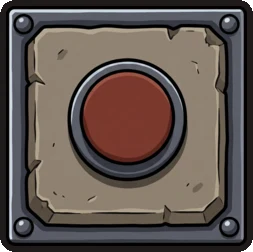
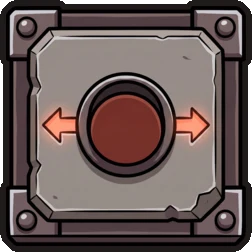
Regenerate spear trap art through the prop recipes

diff --git a/docs/art/PROPS.md b/docs/art/PROPS.md
@@ -3,72 +3,61 @@
 Painted art for things on the board that aren't pieces: the spear trap's floor switch
 (armed and pressed), its wall launcher and the spear in flight. Files in
 `src/assets/props/`, drawn by CSS in `src/exile.css` (`.floor-switch`, `.spear-launcher`,
-`.strike-bolt.spear-bolt`). Look rules: `docs/art-style.md`.
+`.spear-volley`). Look rules: `docs/art-style.md`.
 
-## How they were made (Nov 8 2026)
+## Make or re-roll a prop
 
-1. Nano Banana Pro (`google/gemini-3-pro-image`), with `docs/art/sheet-armour-talks.webp`
-   as the only reference image, on a flat `#d8d8d8` background. Two rolls each; the
-   picks are below.
-2. Pressed switch: an edit of the armed switch (same model), so the slab matches.
-3. Cutout: BiRefNet ToonOut (`sprited/birefnet-toonout`, `refine_fg: true`).
-4. `node tools/art/prop.mjs <painted.png> <cutout.png> <out.webp> ...`: trims, scales and
-   thickens the outline in ink, as `sprite.mjs` does for characters.
+Same pipeline as the characters (`PAINTED.md`): Nano Banana Pro (`google/nano-banana-pro`)
+with the style sheet `docs/art/sheet-armour-talks.webp` as the only reference, then the
+BRIA cutout (`bria/remove-background`), then `prop.mjs`.
 
-| File | Size flags | Note |
-|---|---|---|
-| `switch.webp` | `--height 240 --outline 6` | Straight-on roll, earthy stone; the 3/4-tilted roll fought the square tile. |
-| `switch-sprung.webp` | `--height 240 --outline 6` | Edit of `switch.webp`. |
-| `launcher.webp` | `--height 160 --outline 5` | The roll with a coil spring across the top reads as "wound up". |
-| `spear.webp` | `--width 640 --outline 5` | 21:9 (the model refuses 4:1); the roll with the bigger leaf head. |
+1. `node tools/art/gen.mjs docs/art/recipes/paint-prop-<name>.json` (output in
+   `art-out/paint-prop-<name>/`). Look at the paint step at full size; re-roll if the
+   outline is thin, the shading has gradients, or anything from the sheet leaks in.
+2. `node tools/art/prop.mjs art-out/paint-prop-<name>/step-1-paint.png
+   art-out/paint-prop-<name>/step-2-cutout.png <file> <flags>`, with `file` and `flags`
+   from the recipe's `prop` block (for the pressed switch the colour is `step-2-pressed.png`
+   and the cutout `step-3-cutout.png`). It trims, scales and thickens the outer outline in
+   ink, as `sprite.mjs` does for characters.
+3. If the size changes, update the `aspect-ratio` of `.spear-launcher` / `.spear-volley i`
+   in `src/exile.css`.
 
-Every prompt opens with this style block:
+| Recipe | File | Flags | Pick (Nov 8 2026) |
+|---|---|---|---|
+| `paint-prop-switch.json` | `switch.webp` | `--height 240 --outline 6` | Second of two rolls: carved side arrows meet the button ring, white highlight tick. |
+| `paint-prop-switch-pressed.json` | `switch-sprung.webp` | `--height 240 --outline 6` | One edit of that pick (step 2 of the recipe); arrows glow after firing. |
+| `paint-prop-launcher.json` | `launcher.webp` | `--height 160 --outline 5` | First of two rolls: three-quarter crate, spring coil on top, muzzle with spear tip. |
+| `paint-prop-spear.json` | `spear.webp` | `--width 640 --outline 5` | Second of two 16:9 rolls; the first painted the sheet's panels under the spear. |
 
-> Game prop sprite, painted as one single whole image, in the exact art style of the first
-> image (a character select sheet): bold flash-era 2D brawler cartoon, very thick even
-> black outlines, flat fills, one hard cel shadow, crisp white highlight ticks on metal.
+## Notes from the rolls
 
-Subjects (each ends with "A VERY thick black outer outline all the way round. One object
-only, centred, filling most of the frame with a small margin, on a plain flat light grey
-background (#d8d8d8), no ground, no cast shadow, no text, no labels, no frame."):
-
-- **Switch** (1:1): a stone floor pressure plate trap switch for a medieval dungeon floor
-  tile, seen from above at a slight three-quarter tilt. A square slab of rough grey stone
-  with chunky bevelled edges, set in a dark iron frame with four big round rivets at the
-  corners. In the middle a big raised round button painted bright red (#cd2a25) with an
-  iron ring around it and one crisp white highlight tick, clearly sticking up, ready to be
-  stepped on. One small chip in the stone corner as a sign of wear. Simple chunky shapes,
-  few interior lines, so it reads clearly at 48 pixels. Earthy greys and iron, with the red
-  button as the one bright accent.
-- **Pressed switch** (edit of the switch): Change only the round red button in the
-  middle: it has been pressed all the way down, so it now sits flush, sunk into its iron
-  ring with no visible side wall, and its colour is a dull dark brick red (#7a2a24) with no
-  white highlight. Keep everything else exactly the same.
-- **Launcher** (1:1): a wall-mounted spear launcher trap, seen from the side, facing
-  RIGHT. A chunky square box of dark wooden planks (#5f3f2c with lighter #865637 plank
-  faces) bound with two thick iron bands with round rivets, with a coiled iron spring
-  visible on top. On its right face a round dark hole, and the steel tip of a loaded spear
-  pokes out of the hole to the right, pointing right. Squat and compact, about as tall as
-  it is wide. Simple chunky shapes, so it reads clearly at 32 pixels. No wall behind it.
-- **Spear** (21:9): one long medieval throwing spear lying perfectly horizontal, pointing
-  to the RIGHT. A straight light-brown wooden shaft (#a57952) with a darker wood shadow
-  stripe along its underside, a leather grip wrap near the back end, and at the right end
-  a big leaf-shaped steel spearhead (#8a9094 with a hard darker shadow half and one white
-  highlight tick) on a short iron socket. Chunky proportions: the spearhead is large and
-  bold, the shaft thick enough to read at small size. No motion lines.
+- Only the style sheet as reference. Adding a character sprite (transparent webp) as a
+  second reference leaked its feet into the picture.
+- The spear at 21:9 copied the reference sheet's panels; at 16:9 with "Using ONLY the art
+  style of the attached character select sheet (do not copy its layout, characters,
+  panels or text)" it came out clean.
+- The pressed switch is an edit of the armed paint, so the slab and frame match.
+- These rolls ran through the image-gen tool on Replicate (same models and prompts as the
+  recipes), because no `REPLICATE_API_TOKEN` was set in that session; `gen.mjs` sends the
+  same requests.
 
 ## Item icons (Nov 8 2026)
 
 The bag's icons in `src/assets/items/`, drawn by `table/ItemSlots.tsx`. The decoy's icon is
 also the straw pawn on the board (`decoyBox` in `SpriteRig.tsx`, drawn at a pawn's height).
-Same method as above: Nano Banana Pro (here through Replicate as `google/nano-banana-pro`)
-with `docs/art/sheet-armour-talks.webp` as the only reference, BiRefNet ToonOut cutout
+Nano Banana Pro (through Replicate as `google/nano-banana-pro`) with
+`docs/art/sheet-armour-talks.webp` as the only reference, BiRefNet ToonOut cutout
 (`refine_fg: true`), then `tools/art/prop.mjs`.
 
 | File | Size flags | Note |
 |---|---|---|
 | `bomb.webp` | `--height 160 --outline 5` | One roll, kept. |
 | `decoy.webp` | `--height 240 --outline 6` | 3:4. Two rolls; the squat one on a wide base (reads as a pawn, no cast shadow) over the tall one on a stem. |
+
+Both prompts end with this closing sentence: "A VERY thick black outer outline all the way
+round. One object only, centred, filling most of the frame with a small margin, on a plain
+flat light grey background (#d8d8d8), no ground, no cast shadow, no text, no labels, no
+frame."
 
 - **Bomb** (1:1): "Game item icon, painted as one single whole image, in the exact art style
   of the first image (a character select sheet): bold flash-era 2D brawler cartoon, very thick
@@ -79,7 +68,7 @@ with `docs/art/sheet-armour-talks.webp` as the only reference, BiRefNet ToonOut 
   coming out of the cap, its tip lit with a bright yellow and orange spark (#ffd34d, #f08a2a)
   shaped like a small star burst. Slight three-quarter view, the fuse curling up and to the
   right. Simple chunky shapes, few interior lines, so it reads clearly at 32 pixels." + the
-  closing sentence above.
+  closing sentence.
 - **Decoy** (3:4): "Game character sprite, painted as one single whole image, in the exact art
   style of the first image (a character select sheet): bold flash-era 2D brawler cartoon, very
   thick even black outlines, flat fills, one hard cel shadow. Subject: a straw training dummy
@@ -91,6 +80,7 @@ with `docs/art/sheet-armour-talks.webp` as the only reference, BiRefNet ToonOut 
   sitting on a flared round wooden base painted warm brown (#865637) like a pawn's foot, with a
   hard darker shadow. A faded red painted target circle (#cd2a25) on its chest. Squat chunky
   proportions like a chess pawn, simple shapes, few interior lines, so it reads clearly at 48
-  pixels." + the closing sentence above, with "One figure only" for "One object only".
+  pixels." + the closing sentence, with "One figure only" for "One object only".
 
-Image models aren't deterministic: the committed webp files are the canonical art.
+Image models aren't deterministic and Nano Banana Pro takes no seed: the committed webp
+files are the canonical art. The spear trap's prompts live in its recipes.
